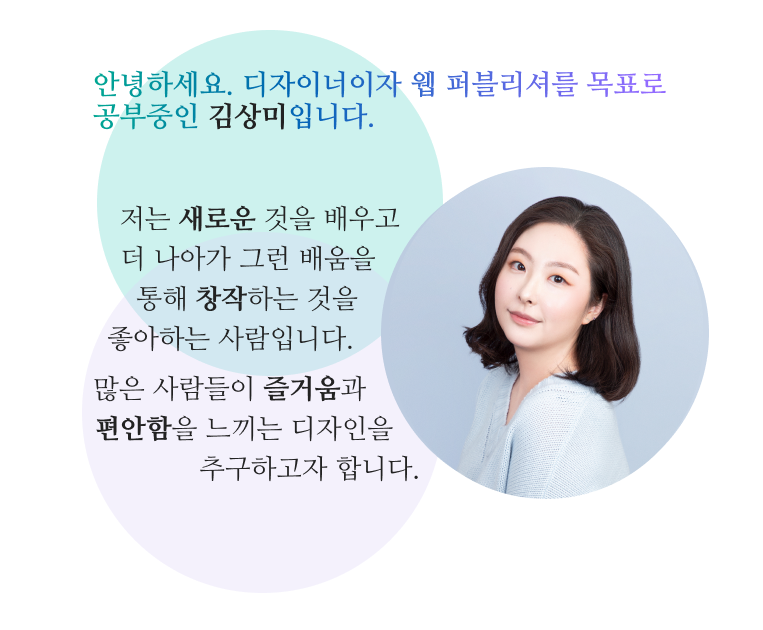
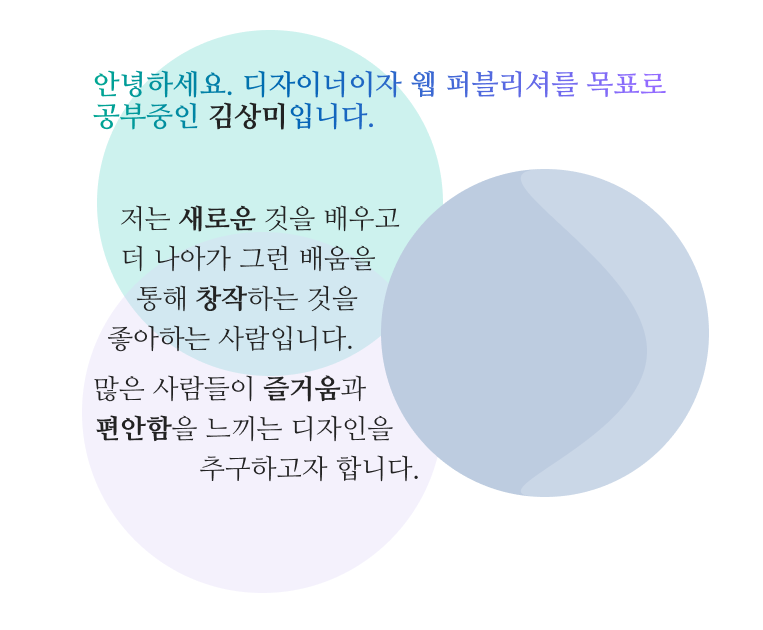
personal information remove
phone number and profile image change

Changed region(s): [[0.6029, 0.3016, 0.844, 0.8143]]

diff --git a/index.html b/index.html
@@ -23,7 +23,7 @@
         <div class="con-txt">
             <p>CONTACT to</p>
             <p>E-MAIL &#58; liden207@naver.com </p>
-            <p>Mobile &#58; 010 - 5530 - 2713 </p>
+            <p>Mobile &#58; 010 - 0000 - 0000 </p>
             <p>Instagram &#58; @meltingwhite </p>
             <p>(C) 2023. 김상미 all rights reserved.</p>
         </div>
@@ -295,7 +295,7 @@
             <div class="contact_2">
                 <p> Contact me! </p>
                 <p>E-MAIL &#58; liden207@naver.com </p>
-                <p>Mobile &#58; 010 - 5530 - 2713 </p>
+                <p>Mobile &#58; 010 - 0000 - 0000 </p>
                 <p>Instagram &#58; @meltingwhite </p>
                 <a href="https://github.com/Liadenia" target="_blank"><img src="attr/icon/github.png" alt="github"></a>
             </div>
